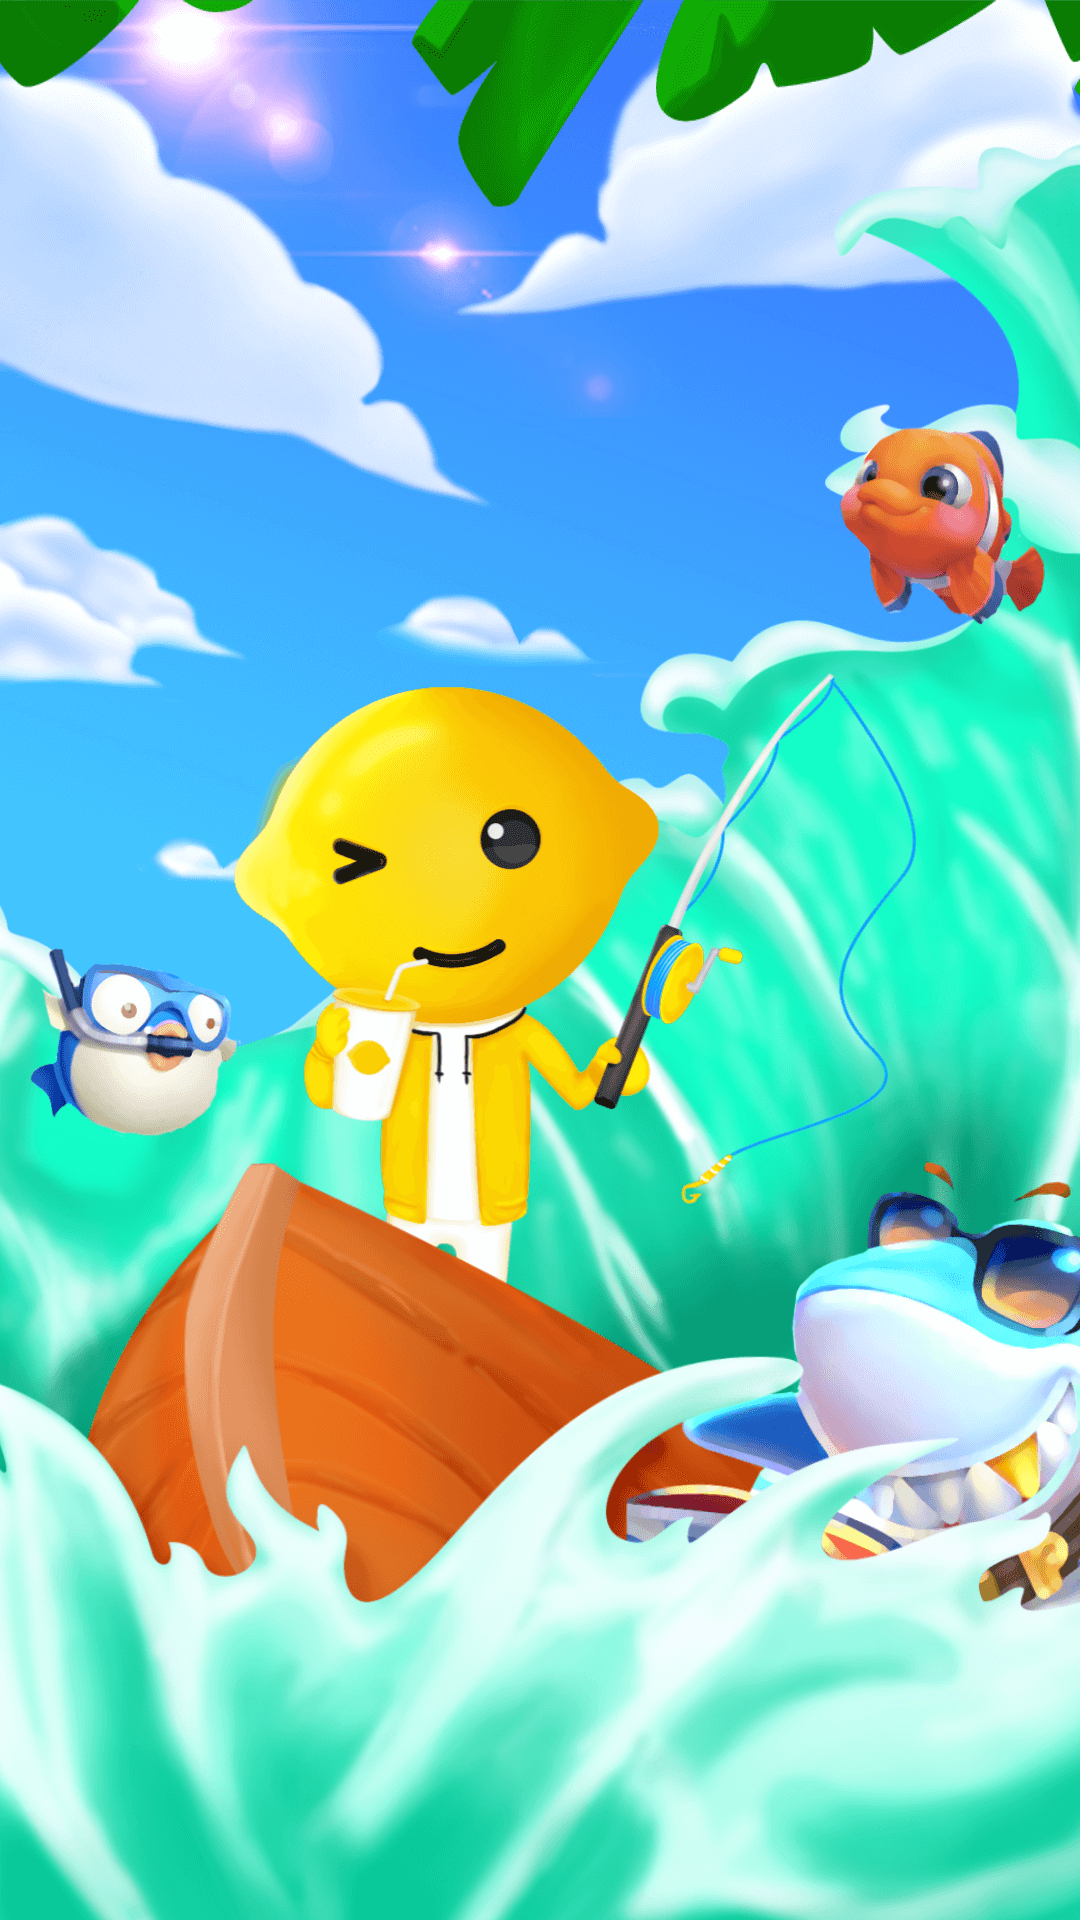
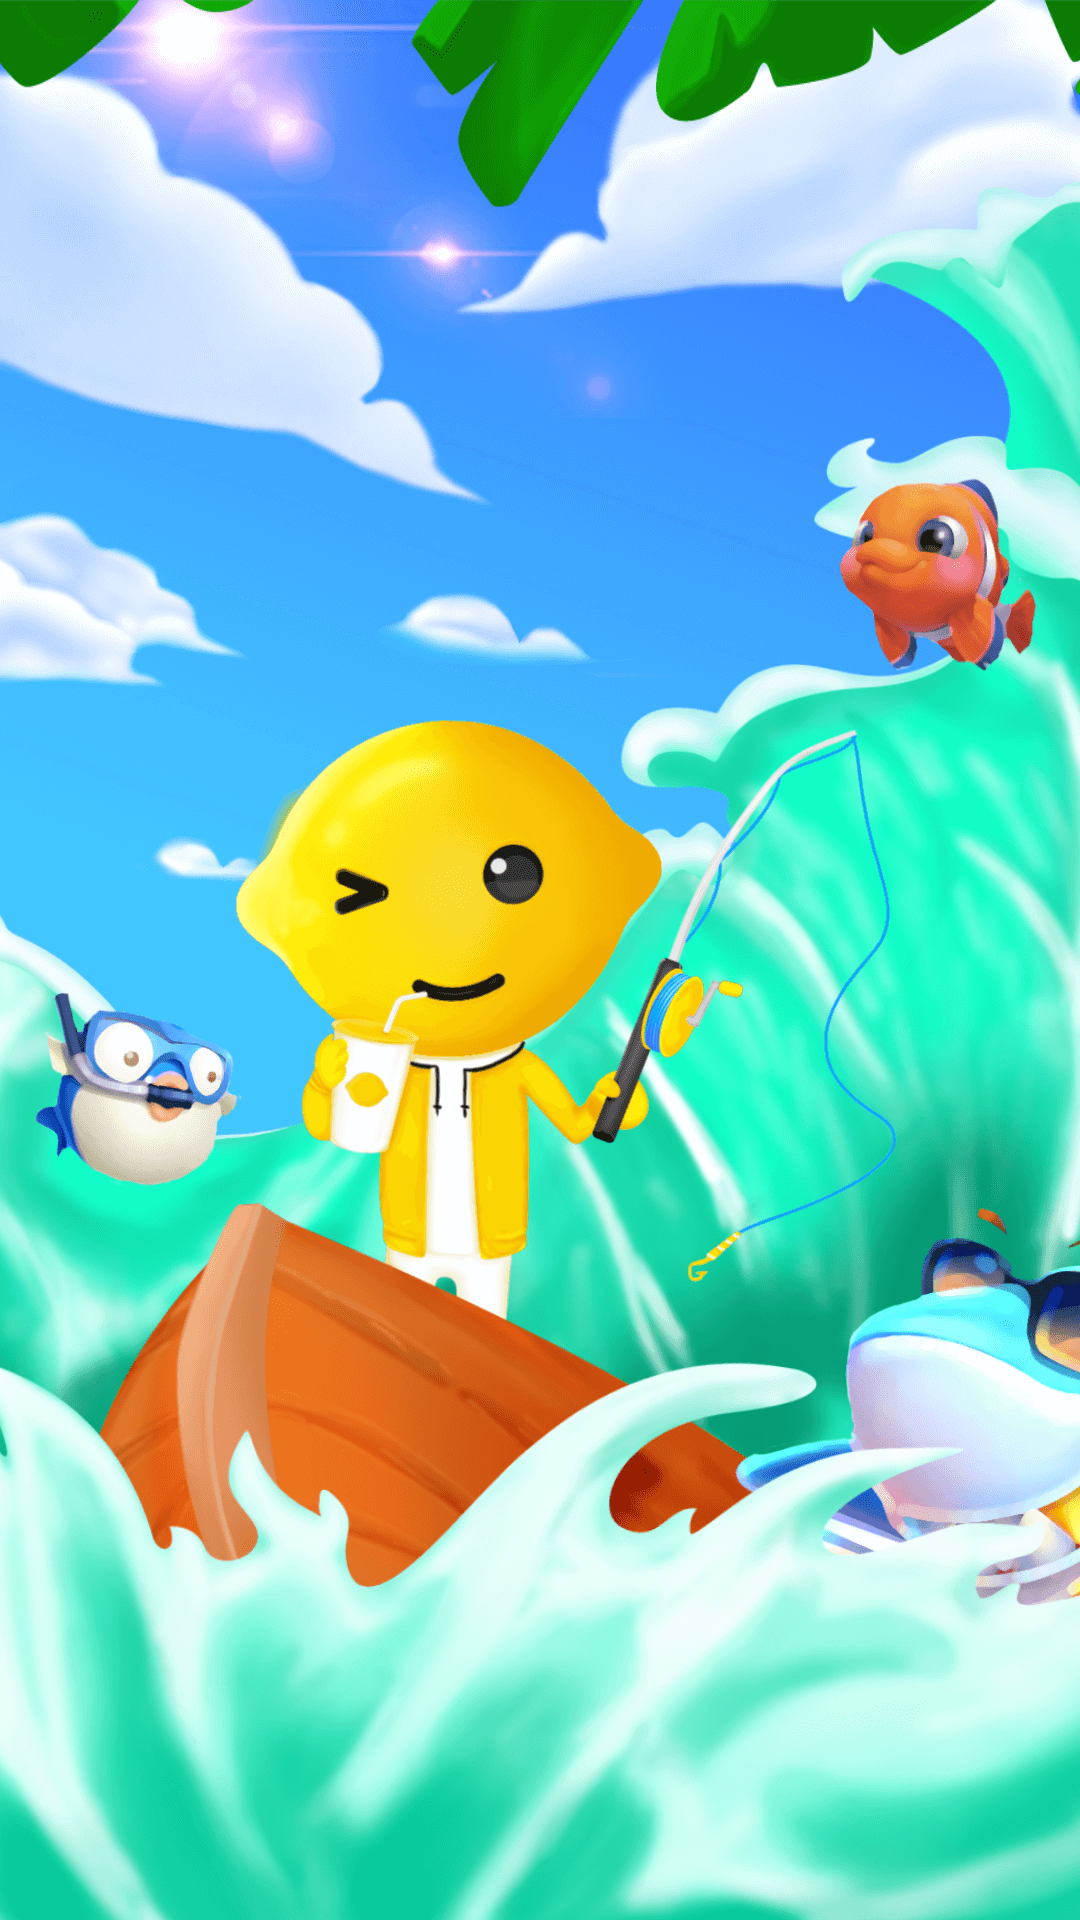
Signed-off-by: blessing <1424518876@qq.com>

diff --git a/fishing/js/index.js b/fishing/js/index.js
@@ -1,6 +1,16 @@
+//window.requestAnimFrame = (function() {
+//return (
+//  window.requestAnimationFrame ||
+//  window.webkitRequestAnimationFrame ||
+//  window.mozRequestAnimationFrame ||
+//  window.oRequestAnimationFrame ||
+//  window.msRequestAnimationFrame ||
+//  function(callback, element) {
+//    window.setTimeout(callback, 1000 / 60)
+//  }
+//)
+//})()
 // 钓鱼按钮
-//window.onload=function(){
-
 var btn = document.querySelector('.btn')
 btn.addEventListener('touchstart', function() {
 	btn.style.transform = 'scale(0.8)'
@@ -10,9 +20,7 @@ btn.addEventListener('touchend', function() {
 })
 // 门店id
 localStorage.setItem('room',GetQueryString('id'))
-var imgURL=0;
 var imgXS=0
-var imgXS1=1
 // 地址栏参数获取
 function GetQueryString(name) {
 	var reg = new RegExp("(^|&)" + name + "=([^&]*)(&|$)");
@@ -22,29 +30,30 @@ function GetQueryString(name) {
 }
 // 图片加载
 function imgload(){
-//	console.log($('#bkg').css('background-image'))
-//	$('.img1').eq(imgXS).css('background-image','url(image/index/shouye_'+imgURL+'.png)')
-//	$('.img1').eq(imgXS+1).css('background-image','url(image/index/shouye_'+(imgURL+1)+'.png)')
-//	$('.img1').eq(imgXS+2).css('background-image','url(image/index/shouye_'+(imgURL+2)+'.png)')
-	$('.img1').eq(imgXS1).css('background-image','url(image/index/shouye_'+(imgURL+1)+'.png)')
- 
-	imgURL=imgURL<99?imgURL+1:0
-
+	for (var i=0;i<9;i++) {
+		$('.img1').eq(i).css('background-image','url(image/index/shouye_'+i+'.png)')
+	}
 }
-//console.log($('.img1'))
+imgload()
 // 轮换
 function imgrotate(){
-	imgXS = imgXS<3?imgXS+1:0
-	$('.img1').css('z-index','-100')
-	$('.img1').eq(imgXS).css('z-index','10')
-	
+	imgXS = imgXS<9?imgXS+1:0
+	$('.img1').eq(imgXS).animate({
+		'opacity':1,
+		'z-index':10
+	},500)
+	$('.img1').eq(imgXS).siblings('.img1').css({
+		'z-index':'-100',
+		'opacity':'0.5'
+	})
 }
+setInterval(imgrotate,500)
+//		imgrotate()
+//		requestAnimationFrame(imgrotate)
 
-//	$('#bkg').css('background-image','url(image/index/shouye_'+imgURL+'.png)')
-//setInterval(function(){
-//	imgload()
-//	imgrotate()
-//	console.log(imgURL)
-//	console.log(imgXS)
-//},1000)
+//window.onload = function() {
+//(function animloop() {
+//  imgrotate()
+//  requestAnimFrame(animloop, window)
+//})()
 //}

diff --git a/fishing/css/css/index.css b/fishing/css/css/index.css
@@ -8,7 +8,7 @@ body{
 #bkg{
 	width: 100%;
 	height: 100%;
-	background-image: url(../../image/index/首页.jpg);
+	background-image: url(../../image/index/shouye_0.png);
 	background-position: center;
 	background-repeat: no-repeat;
 	background-size: cover;
@@ -28,7 +28,7 @@ body{
 	bottom: 5%;
 	z-index: 100;
 }
-.img1,.img2,.img3{
+.img1{
 	width: 100%;
 	height: 100%;
 	background-size: cover;
@@ -37,5 +37,6 @@ body{
 	position: absolute;
 	top: 0;
 	left: 0;
-	z-index: -100;
+	z-index: 10;
+	opacity: 1;
 }

diff --git a/fishing/js/start-fishing.js b/fishing/js/start-fishing.js
@@ -34,6 +34,8 @@ ws.onclose = function() {
 }
 //数据接收监听，接收服务器推送过来的信息，返回的数据给msg，然后进行显示
 ws.onmessage = function(msg) {
+		console.log(msg, 2)
+	
 	// 类型改变
 	if(msg.data) {
 		var data = JSON.parse(msg.data).nrong;
@@ -88,7 +90,7 @@ function changProgress() {
 			"openid":openid
 		}
 		ws.send(JSON.stringify(sendDate))
-		alert(JSON.stringify(sendDate))
+		console.log(JSON.stringify(sendDate))
 	}
 	H = H + rerandom
 	if(H < 100) {

diff --git a/fishing/start.html b/fishing/start.html
@@ -108,10 +108,10 @@
 			}
 			//数据接收监听，接收服务器推送过来的信息，返回的数据给msg，然后进行显示
 			ws.onmessage = function(msg) {
-				alert(msg, 1)
+				console.log(msg, 1)
 				// 类型改变
 				if(msg.data) {
-					var data = JSON.parse(msg.data).nrong;
+					var data = JSON.parse(msg.data).content;
 					console.log(data, 2)
 					try {
 						data = JSON.parse(data)

diff --git a/fishing/index.html b/fishing/index.html
@@ -45,6 +45,12 @@
 			<div class="img1"></div>
 			<div class="img1"></div>
 			<div class="img1"></div>
+			<div class="img1"></div>
+			<div class="img1"></div>
+			<div class="img1"></div>
+			<div class="img1"></div>
+			<div class="img1"></div>
+			<div class="img1"></div>
 			
 		</div>
 		<script src="./js/jquery-3.1.1.min.js"></script>
